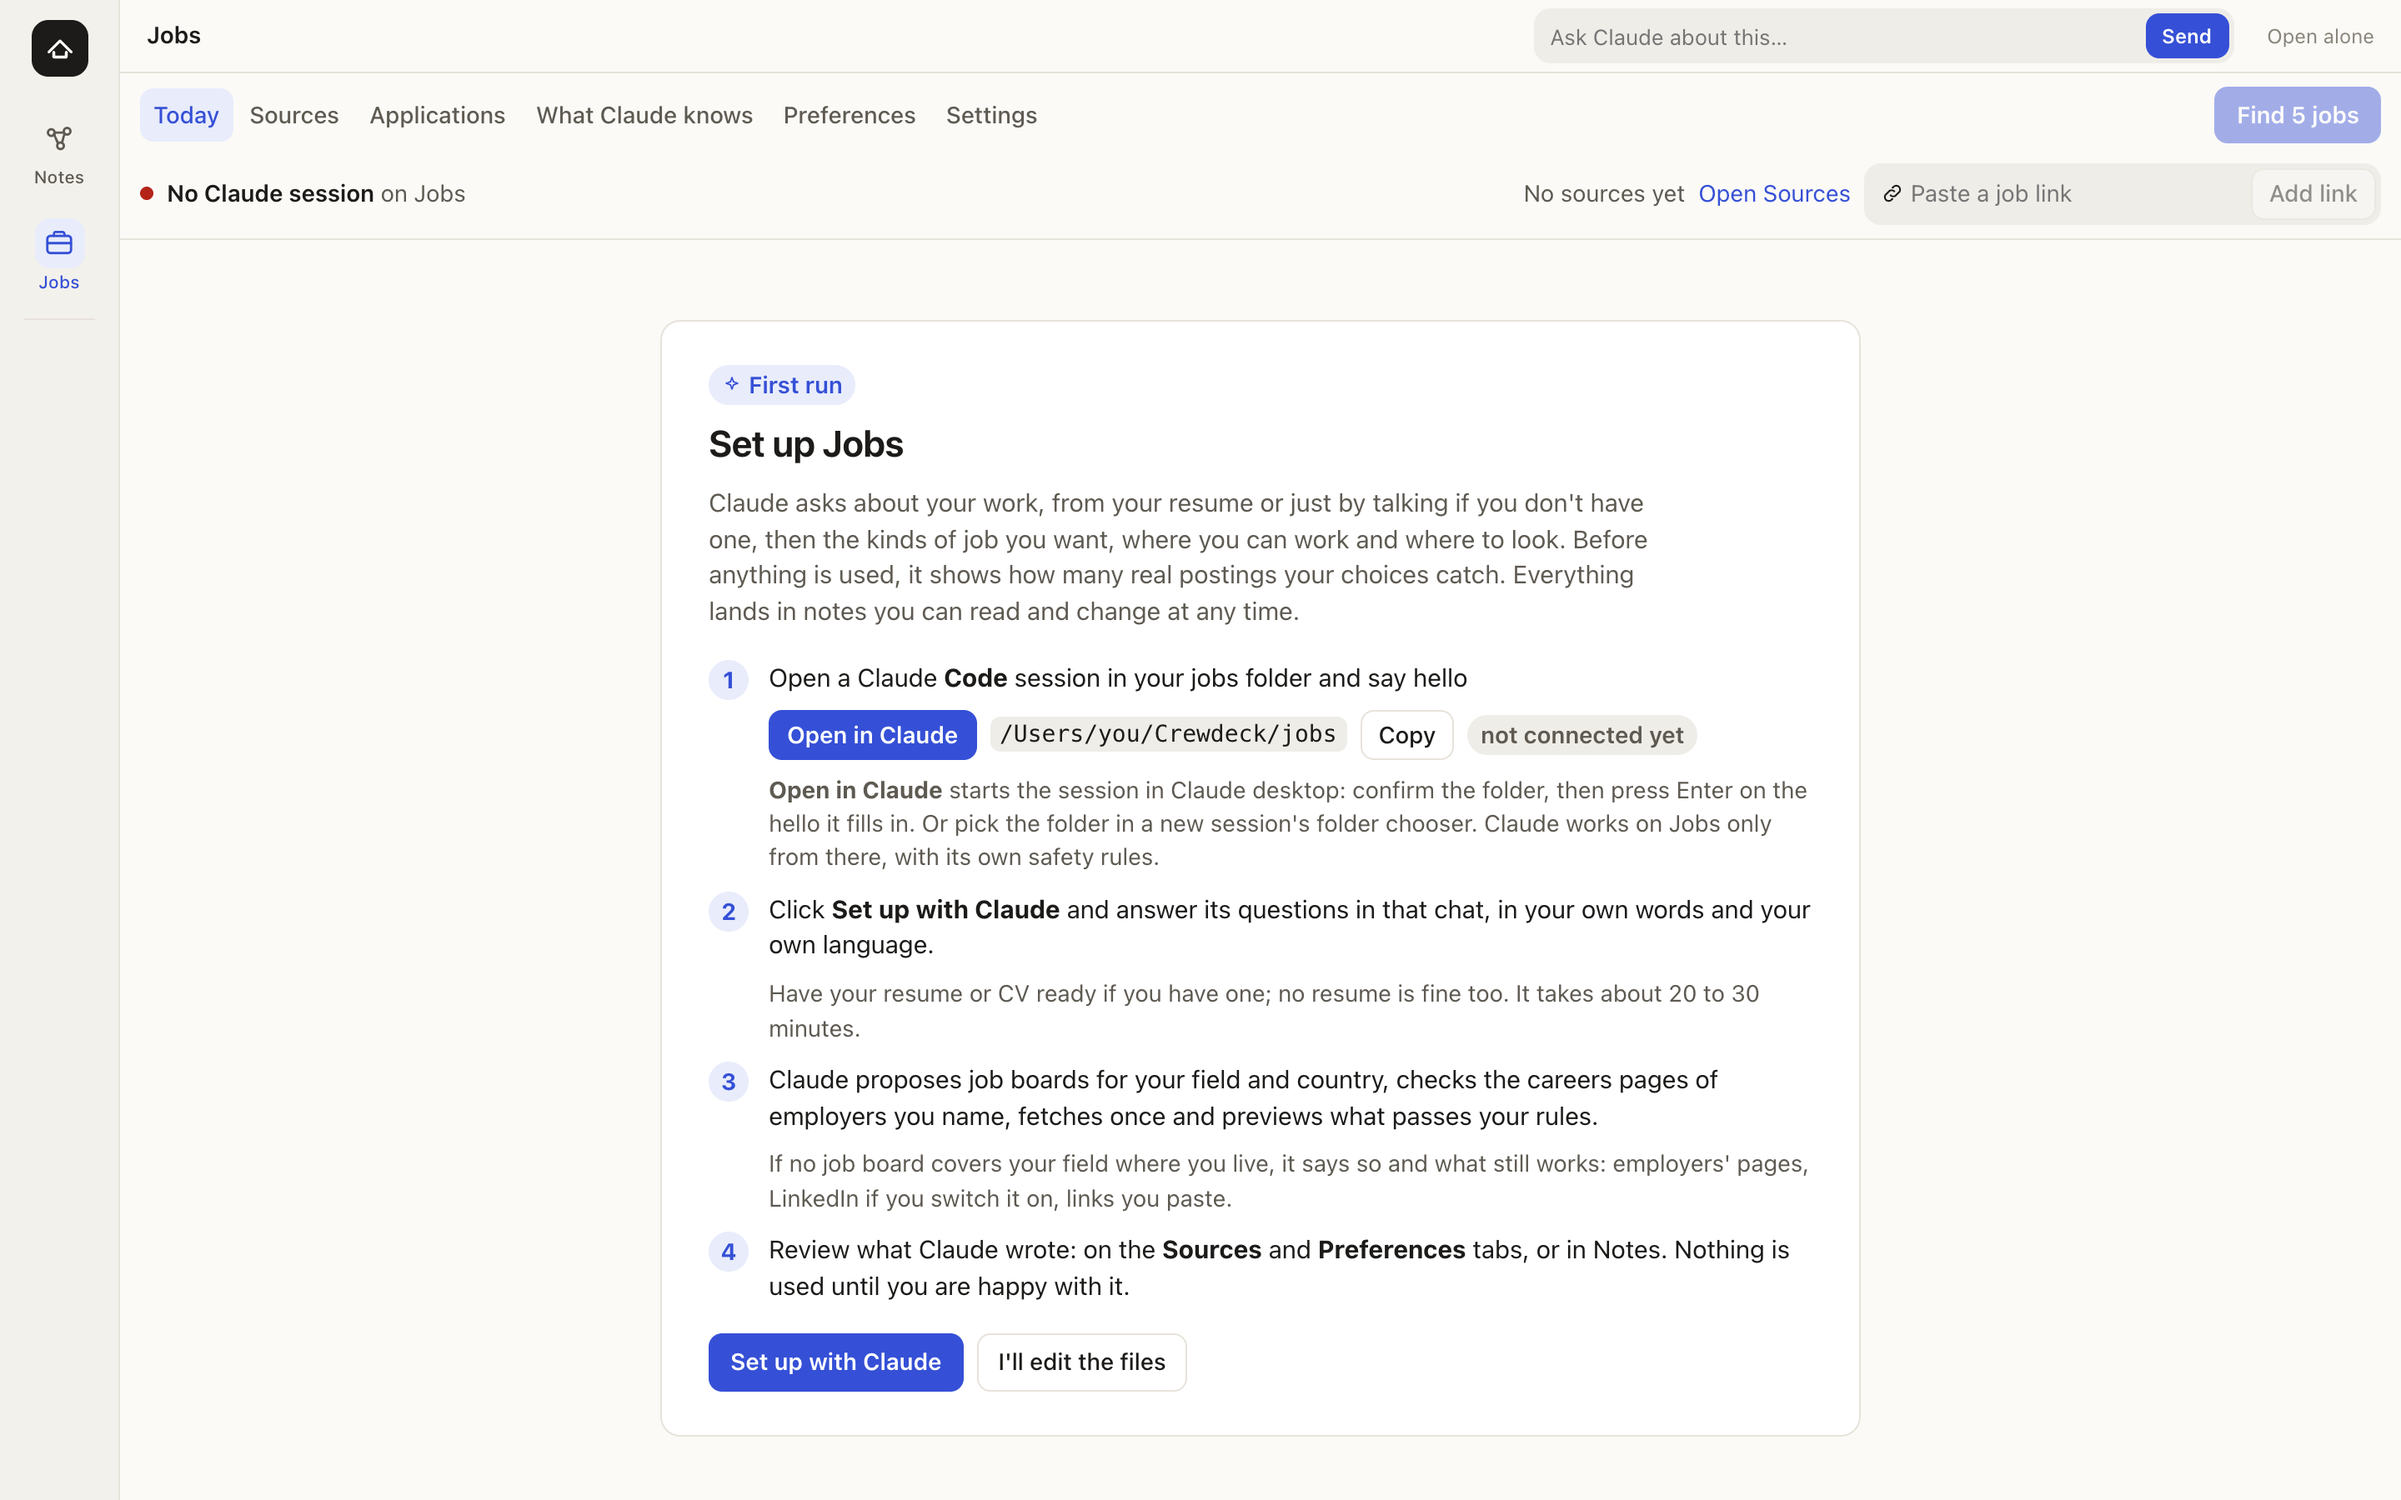
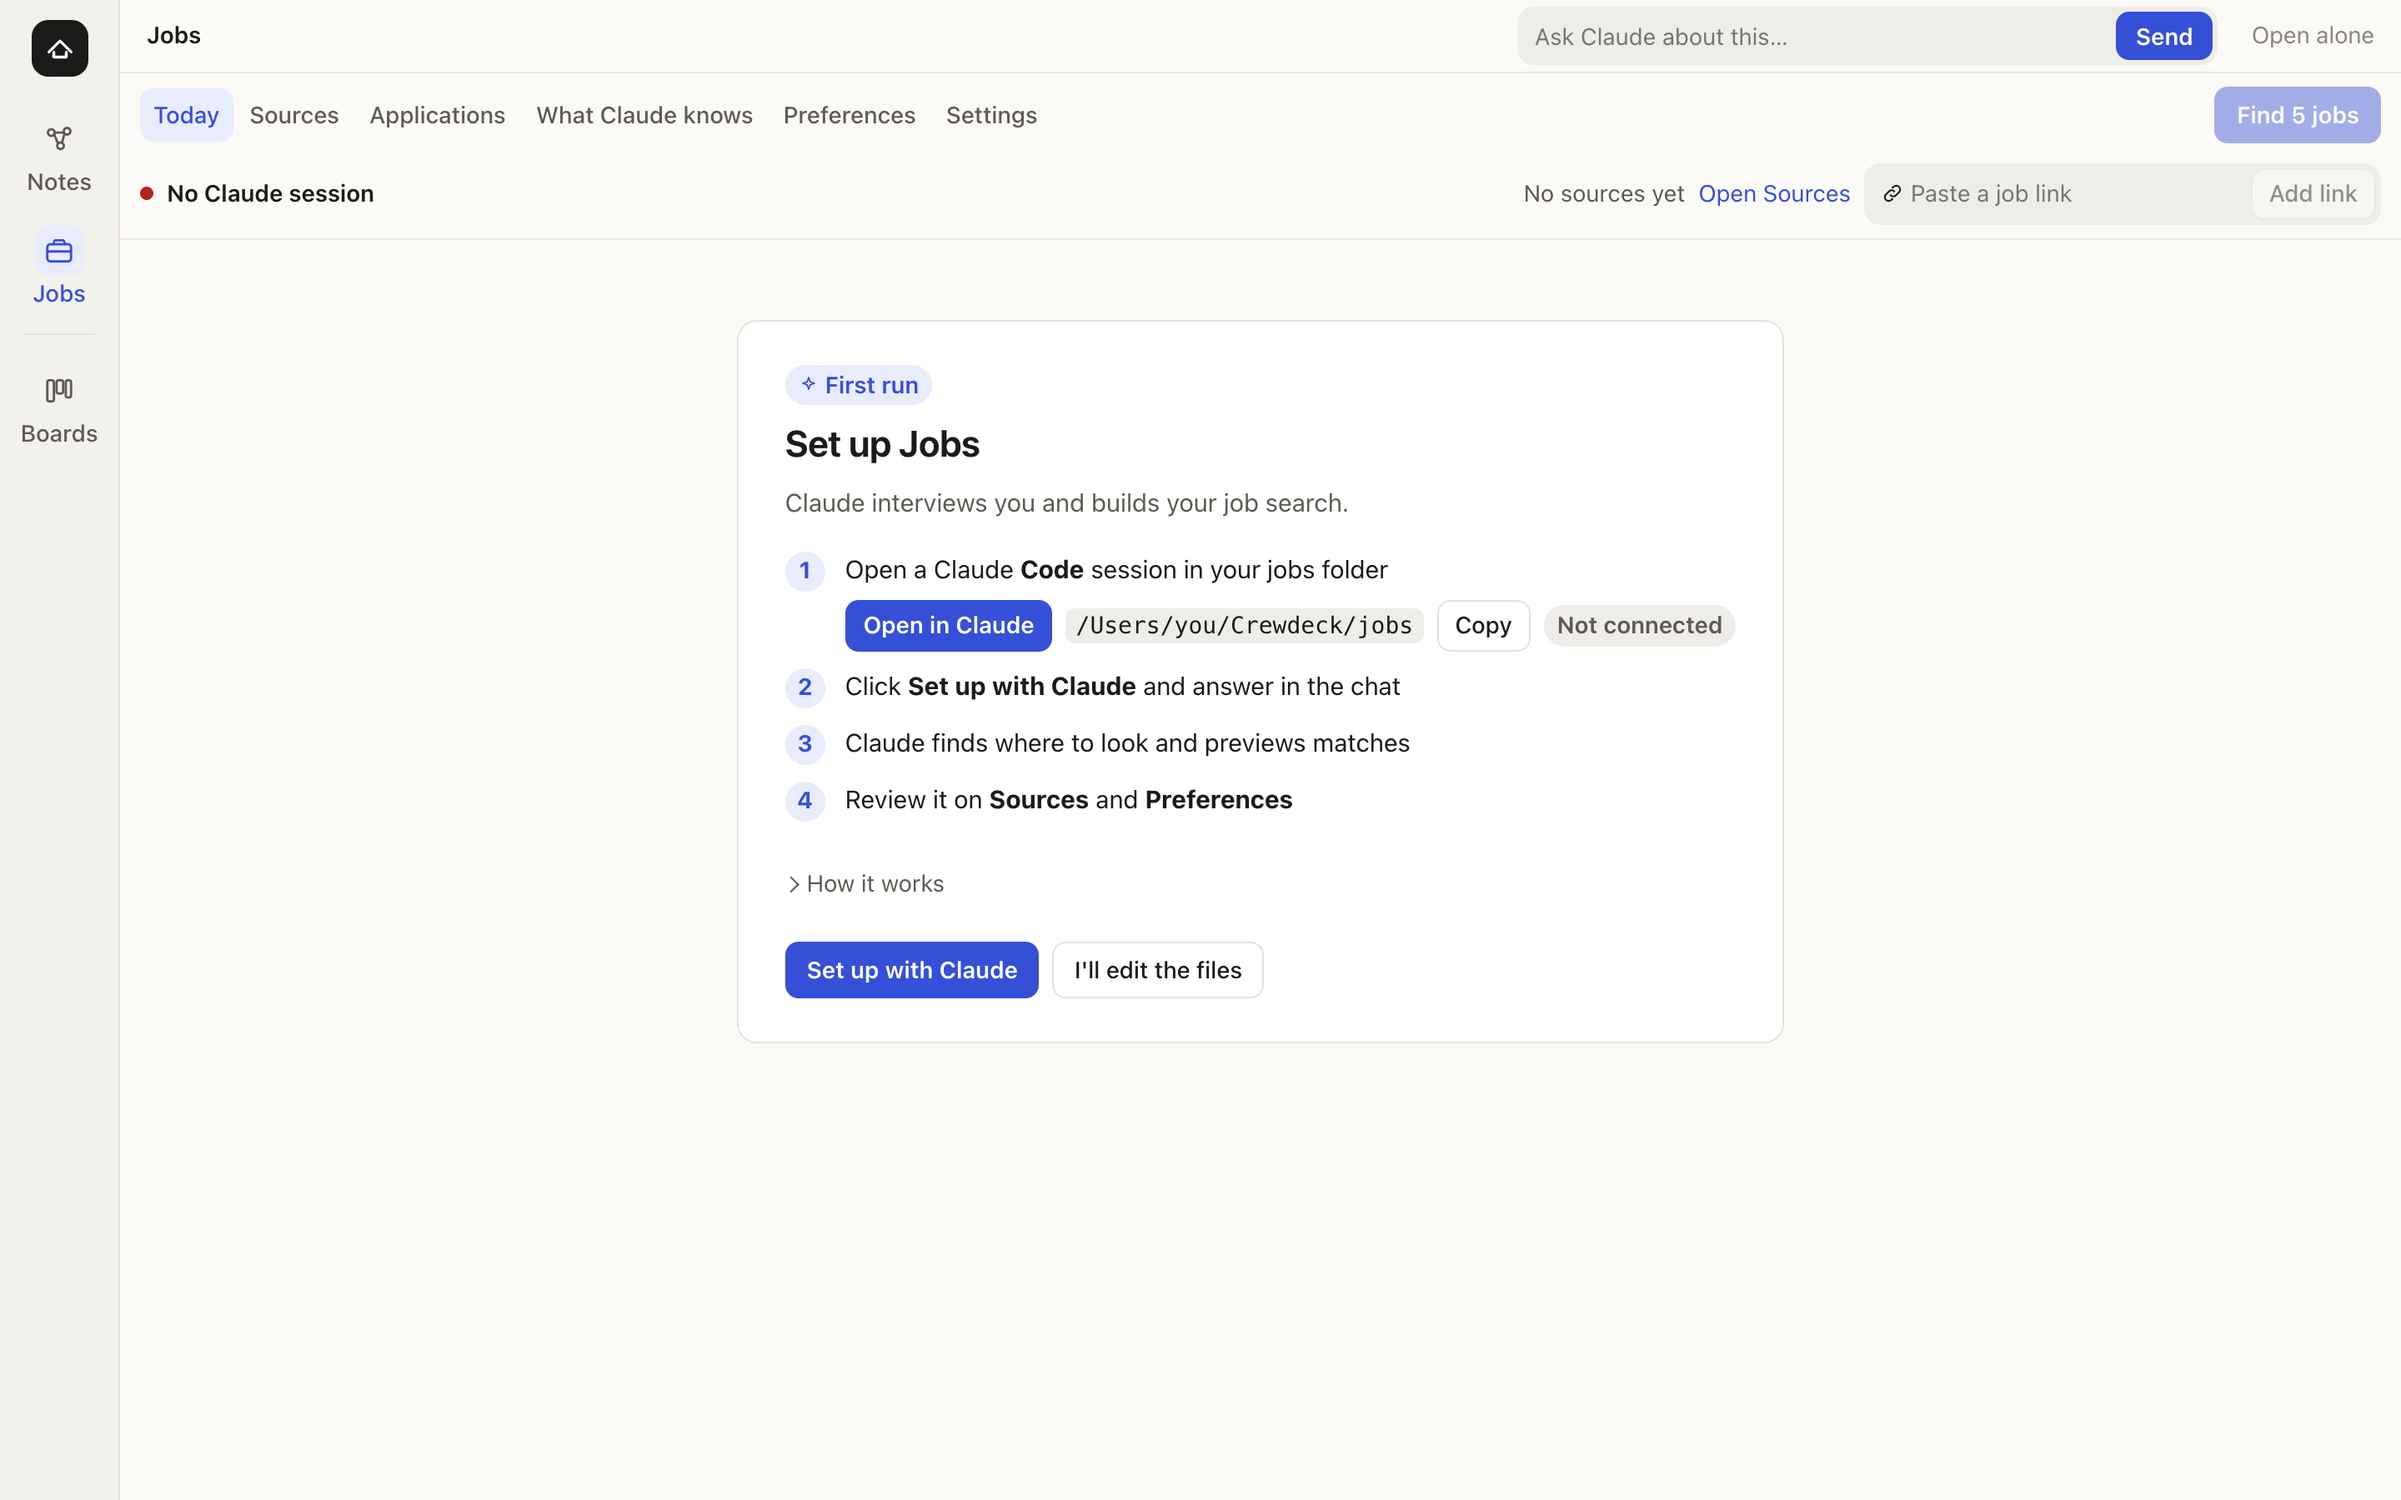
Small windows: every screen fits Claude's narrow and short browser pane; 0.7.1

diff --git a/web/jobs/screens/sources.js b/web/jobs/screens/sources.js
@@ -165,12 +165,13 @@ function CatalogRow({ c, reasons, onAdd }) {
     <div class="body">
       <div class="head"><h3>${c.name}</h3><span class="chips"><span class="chip">${c.kind_label}</span>${c.region_names.length ? html`<span class="chip">${c.region_names.join(', ')}</span>` : null}
         ${c.verified ? null : html`<span class="chip warn">not verified</span>`}</span></div>
-      <p class="small soft clamp">${c.coverage}</p>
-      ${reasons || c.note || (c.families.length && !c.families.includes('any')) ? html`<${More} summary=${reasons ? 'Why suggested' : 'Details'}>
-        ${reasons ? html`<span>Suggested: ${reasons.join('; ')}</span>` : null}
-        ${c.note ? html`<span>${c.note}</span>` : null}
+      ${reasons ? html`<p class="small soft">Suggested: ${reasons[0]}</p>` : null}
+      <${More} summary="Details">
         ${c.families.length && !c.families.includes('any') ? html`<span>For ${c.families.slice(0, 4).map(FAMILY).join(', ')}</span>` : null}
-      </${More}>` : null}
+        ${reasons && reasons.length > 1 ? html`<span>Also: ${reasons.slice(1).join('; ')}</span>` : null}
+        ${c.coverage ? html`<span>${c.coverage}</span>` : null}
+        ${c.note ? html`<span>${c.note}</span>` : null}
+      </${More}>
     </div>
     <div class="ctl">${c.added ? html`<span class="chip ok">In your list</span>`
       : careers ? html`<span class="small soft">Use Add a company</span>`

diff --git a/plugin/hooks/install-script.ts b/plugin/hooks/install-script.ts
@@ -21,7 +21,7 @@ export const NODE_SHA256: Record<string, string> = {
 }
 
 /** The release asset crewdeck-<VERSION>.tar.gz (scripts/release.sh prints it). */
[1 lines of base64/hex data omitted]
+export const APP_SHA256 = ''
 
 export const APP_URL = `https://github.com/pulkitnagpal/crewdeck/releases/download/v${CREWDECK_VERSION}/crewdeck-${CREWDECK_VERSION}.tar.gz`
 
